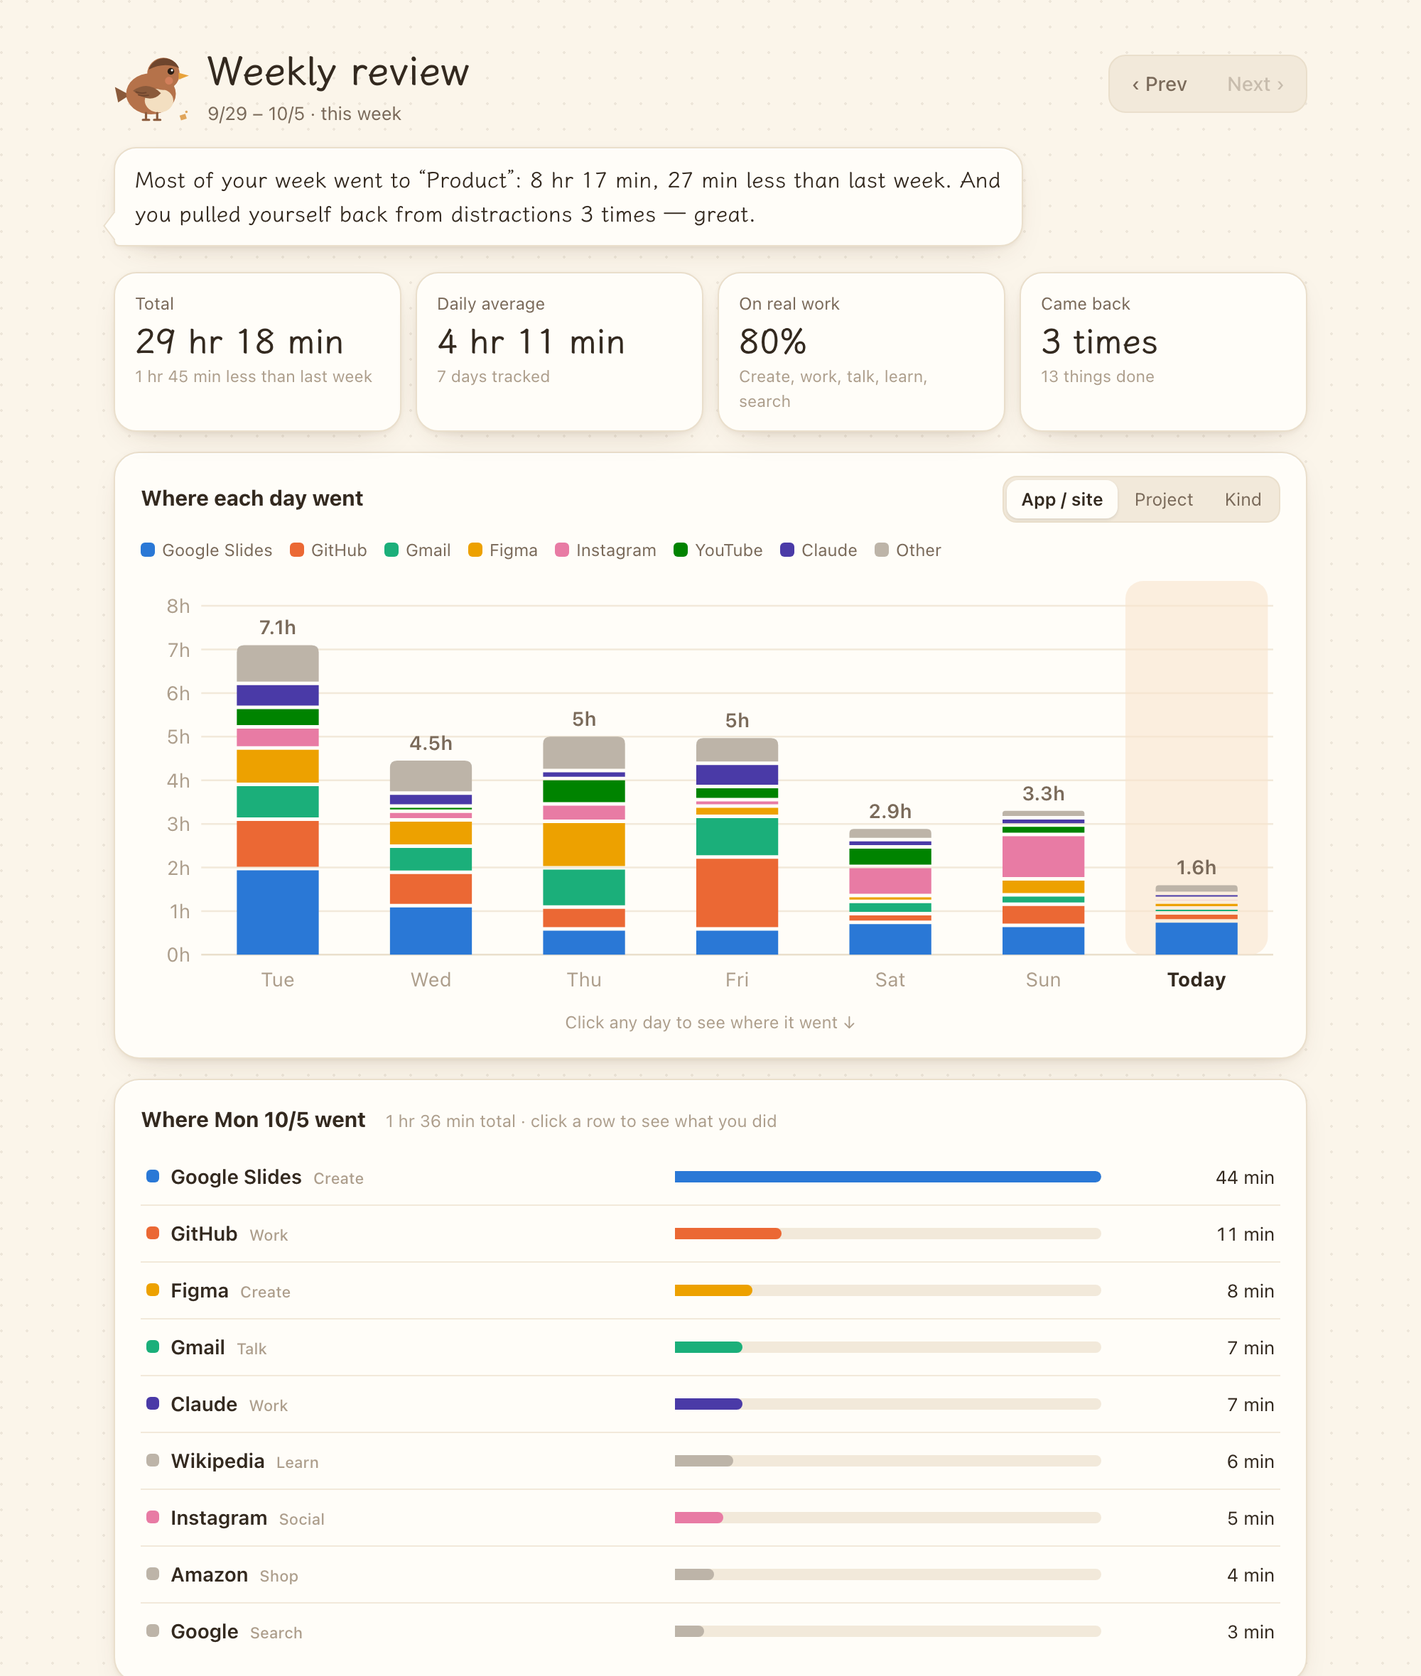
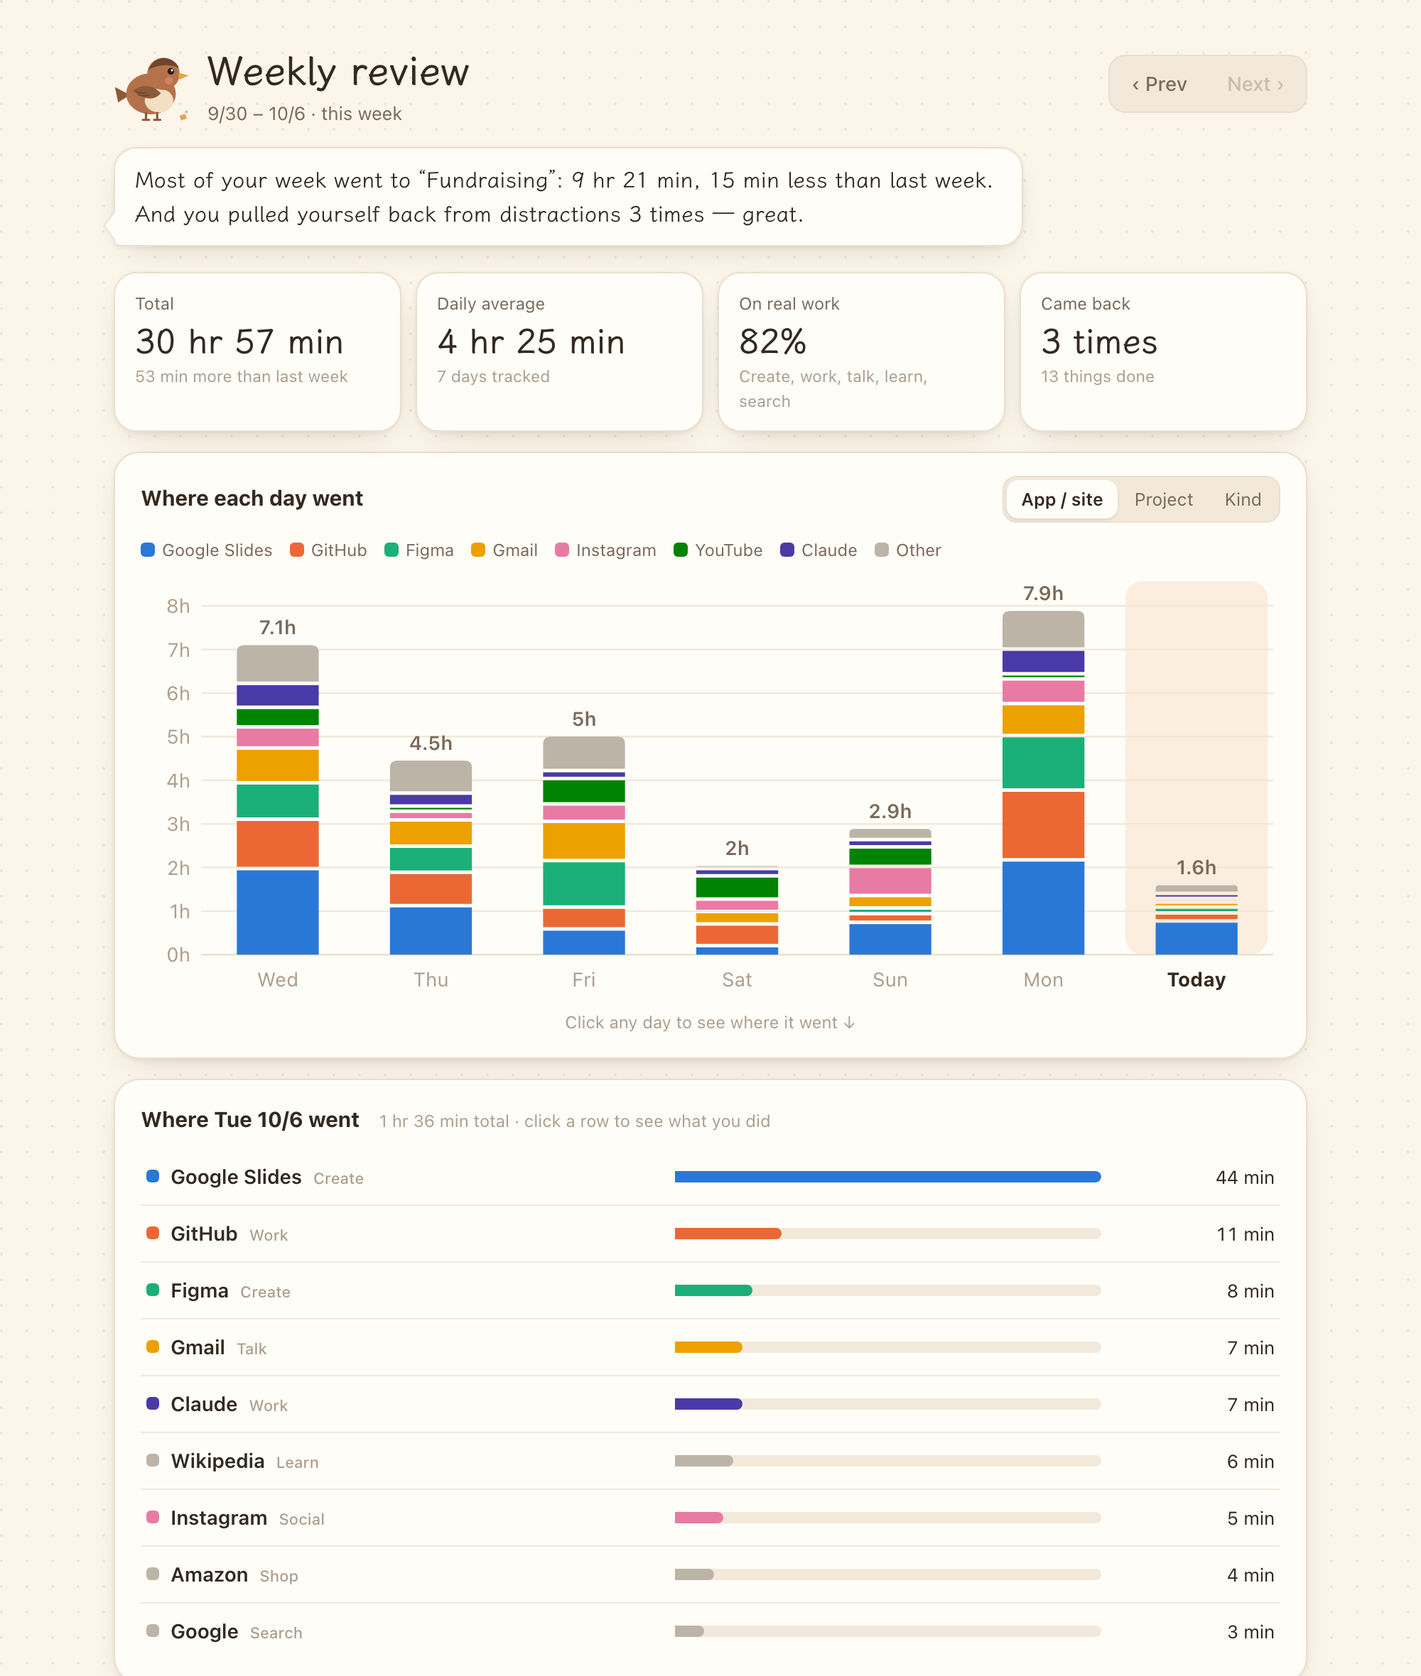
Paste works, multi-line to-dos, and a tidier list
- Overlay and main window: ⌘X/C/V/A/Z work (menu-bar apps have no Edit
  menu); pasting several lines previews one row each, Enter adds them
  all in order, list markers stripped
- Pages become auto to-dos only after 2 minutes or 3 visits
- Closed pages leave the list even without browser permission (window
  titles are checked); permission is re-checked every 2 minutes and the
  overlay shows how to turn it on

diff --git a/mac/Sources/Overlay.swift b/mac/Sources/Overlay.swift
@@ -5,13 +5,33 @@ import SwiftUI
 
 final class OverlayPanel: NSPanel {
     var onKey: ((NSEvent) -> Bool)?
+    var onPaste: (() -> Bool)?
     override var canBecomeKey: Bool { true }
     override var canBecomeMain: Bool { false }
 
     // Arrow keys / Enter / Esc / Tab / Delete drive the list unless a text field is being edited.
     override func sendEvent(_ event: NSEvent) {
+        if event.type == .keyDown, editShortcut(event) { return }
         if event.type == .keyDown, let onKey, onKey(event) { return }
         super.sendEvent(event)
+    }
+
+    /// A menu-bar app has no Edit menu, so ⌘X / ⌘C / ⌘V / ⌘A / ⌘Z need wiring by hand.
+    private func editShortcut(_ e: NSEvent) -> Bool {
+        let mods = e.modifierFlags.intersection(.deviceIndependentFlagsMask)
+        guard mods == .command || mods == [.command, .shift], let key = e.charactersIgnoringModifiers?.lowercased() else { return false }
+        let action: Selector? = switch (key, mods.contains(.shift)) {
+        case ("x", false): #selector(NSText.cut(_:))
+        case ("c", false): #selector(NSText.copy(_:))
+        case ("v", false): #selector(NSText.paste(_:))
+        case ("a", false): #selector(NSText.selectAll(_:))
+        case ("z", false): Selector(("undo:"))
+        case ("z", true): Selector(("redo:"))
+        default: nil
+        }
+        guard let action else { return false }
+        if action == #selector(NSText.paste(_:)), let onPaste, onPaste() { return true }
+        return NSApp.sendAction(action, to: nil, from: self)
     }
 }
 
@@ -28,6 +48,8 @@ final class OverlayModel: ObservableObject {
     @Published var focus: OverlayFocus = .list
     @Published var hover: String?
     @Published var expanded = Set<String>()
+    @Published var pasted: [String] = []      // several lines pasted into 等一下要做, waiting for Enter
+    @Published var browserDenied = false
 
     func refresh() {
         let s = Store.shared
@@ -40,6 +62,8 @@ final class OverlayModel: ObservableObject {
         laterText = ""
         focus = .list
         expanded = []
+        pasted = []
+        browserDenied = !Browser.denied.isEmpty
     }
 
     /// Rough height of the scrolling history, so the panel can size itself.
@@ -85,9 +109,11 @@ final class OverlayController: NSObject, NSWindowDelegate {
             openLater: { [weak self] l in self?.openLater(l) },
             doneLater: { [weak self] l in self?.doneLater(l) },
             openMain: { [weak self] in self?.openMain() },
+            fixBrowser: { [weak self] in self?.fixBrowser() },
             close: { [weak self] in self?.hide() }))
         panel.contentView = host
         panel.onKey = { [weak self] e in self?.handle(e) ?? false }
+        panel.onPaste = { [weak self] in self?.pasteLines() ?? false }
     }
 
     var isVisible: Bool { panel.isVisible }
@@ -152,8 +178,24 @@ final class OverlayController: NSObject, NSWindowDelegate {
         hide()
     }
 
+    /// Pasting several lines into 等一下要做 lists them one per row; Enter adds them all.
+    private func pasteLines() -> Bool {
+        guard model.focus == .later, let s = NSPasteboard.general.string(forType: .string) else { return false }
+        let lines = Engine.splitLines(s)
+        guard lines.count > 1 else { return false }
+        model.pasted += lines
+        resize()
+        return true
+    }
+
+    private func fixBrowser() {
+        hide()
+        NSWorkspace.shared.open(URL(string: "x-apple.systempreferences:com.apple.preference.security?Privacy_Automation")!)
+    }
+
     private func addLater() {
-        Engine.shared.addLater(model.laterText)
+        Engine.shared.addLater(lines: model.pasted + Engine.splitLines(model.laterText))
+        model.pasted = []
         model.laterText = ""
         model.later = Engine.shared.later
         resize()
@@ -184,7 +226,8 @@ final class OverlayController: NSObject, NSWindowDelegate {
     private func handle(_ e: NSEvent) -> Bool {
         switch e.keyCode {
         case 53: // esc
-            if model.focus != .list { model.focus = .list } else { hide() }
+            if !model.pasted.isEmpty { model.pasted = []; resize() }
+            else if model.focus != .list { model.focus = .list } else { hide() }
             return true
         case 48: // tab: list → 這頁要做什麼 → 等一下要做 → list
             model.focus = model.focus == .list ? .note : model.focus == .note ? .later : .list
@@ -263,6 +306,7 @@ struct OverlayView: View {
     var openLater: (Engine.Later) -> Void
     var doneLater: (Engine.Later) -> Void
     var openMain: () -> Void
+    var fixBrowser: () -> Void
     var close: () -> Void
     @FocusState private var focused: OverlayFocus?
 
@@ -271,6 +315,17 @@ struct OverlayView: View {
     var body: some View {
         VStack(alignment: .leading, spacing: 10) {
             header
+            if model.browserDenied {
+                Button(action: fixBrowser) {
+                    Text(L("⚠ 讀不到瀏覽器分頁，關掉的網頁不會自動離開清單。點這裡到「自動化」打開 Crumbs → Chrome",
+                           "⚠ Can't read browser tabs, so closed pages won't leave the list. Click to allow Crumbs → Chrome under Automation"))
+                        .font(.system(size: 12)).multilineTextAlignment(.leading)
+                        .frame(maxWidth: .infinity, alignment: .leading)
+                        .padding(.horizontal, 10).padding(.vertical, 6)
+                        .background(Color.orange.opacity(0.16), in: RoundedRectangle(cornerRadius: 9))
+                }
+                .buttonStyle(.plain)
+            }
             if let n = model.prev?.note, !n.isEmpty {
                 Text(L("你說過要：", "You said: ") + n)
                     .font(.system(size: 12.5))
@@ -370,7 +425,22 @@ struct OverlayView: View {
             if model.later.count > 4 {
                 Text(L("還有 \(model.later.count - 4) 件，在主頁「接下來」", "\(model.later.count - 4) more in “Up next” on the main window")).font(.system(size: 11)).foregroundStyle(.tertiary).padding(.leading, 8)
             }
-            field(.later, icon: "plus", text: $model.laterText, placeholder: L("等一下要做…（可以貼還沒點開的網址）", "Do later… (you can paste a link you haven't opened)"), submit: addLater)
+            field(.later, icon: "plus", text: $model.laterText, placeholder: L("等一下要做…（可以一次貼好幾行，或還沒點開的網址）", "Do later… (paste several lines, or a link you haven't opened)"), submit: addLater)
+            if !model.pasted.isEmpty {
+                VStack(alignment: .leading, spacing: 2) {
+                    ForEach(Array(model.pasted.enumerated()), id: \.offset) { _, line in
+                        HStack(spacing: 8) {
+                            Image(systemName: "plus.circle").font(.system(size: 12)).foregroundStyle(crumbOrange)
+                            Text(line).font(.system(size: 13)).lineLimit(1)
+                        }
+                        .padding(.horizontal, 8).padding(.vertical, 3)
+                    }
+                    Text(L("按 Enter 加入這 \(model.pasted.count) 項 · Esc 取消", "Enter adds these \(model.pasted.count) · Esc cancels"))
+                        .font(.system(size: 11)).foregroundStyle(.secondary).padding(.leading, 8).padding(.top, 2)
+                }
+                .padding(.vertical, 4)
+                .background(crumbOrange.opacity(0.08), in: RoundedRectangle(cornerRadius: 10))
+            }
         }
     }
 

diff --git a/sidepanel.js b/sidepanel.js
@@ -15,6 +15,7 @@
   let dragKey = null;       // task being dragged
   let openKeys = [];        // current order of open tasks, for reordering
   let seenLog = null;       // jar log length we've already celebrated
+  let pasted = [];          // lines pasted into the add box, waiting for Enter
 
   function pref(k, v) {
     try {
@@ -221,7 +222,7 @@
         <button class="more" data-act="toggleMore">${showMore ? L('收起來，一次看少一點', 'Show less') : L(`還有 ${rest.length - LIMIT} 件，先不用看`, `${rest.length - LIMIT} more — no need to look yet`)}</button>` : ''}
       <form class="add" data-act="add">
         <span class="add-ic">${ICON.plus}</span>
-        <input name="task" maxlength="60" placeholder="${L('腦中冒出一件事？先丟這裡', 'Something popped into your head? Drop it here')}" autocomplete="off">
+        <input name="task" maxlength="60" placeholder="${L('腦中冒出一件事？先丟這裡（可以一次貼好幾行）', 'Something popped into your head? Drop it here (paste several lines at once)')}" autocomplete="off">
       </form>
       ${done.length ? `
         <button class="section toggle" data-act="toggleDone" aria-expanded="${showDone}">
@@ -445,7 +446,31 @@
     render();
   });
 
+  // Pasting a block of to-dos: one row per line, shown before you press Enter.
+  function showPasted(form) {
+    let box = form.nextElementSibling;
+    if (!box || !box.classList.contains('paste-preview')) {
+      if (!pasted.length) return;
+      box = document.createElement('div');
+      box.className = 'paste-preview';
+      form.after(box);
+    }
+    if (!pasted.length) { box.remove(); return; }
+    box.innerHTML = `<ol>${pasted.map((l) => `<li>${e(l)}</li>`).join('')}</ol>
+      <p>${L(`按 Enter 加入這 ${pasted.length} 項 · Esc 取消`, `Enter adds these ${pasted.length} · Esc cancels`)}</p>`;
+  }
+  app.addEventListener('paste', (ev) => {
+    const input = ev.target.closest?.('form.add input');
+    if (!input) return;
+    const lines = C.splitLines(ev.clipboardData?.getData('text/plain'));
+    if (lines.length < 2) return;
+    ev.preventDefault();
+    pasted = pasted.concat(lines);
+    showPasted(input.form);
+  });
+
   app.addEventListener('keydown', (ev) => {
+    if (ev.key === 'Escape' && pasted.length && ev.target.closest?.('form.add')) { pasted = []; showPasted(ev.target.form); return; }
     if (ev.key === 'Enter' && ev.target.matches('[role=button]')) ev.target.click();
     if (ev.key === 'Escape' && editingNote) { editingNote = null; ev.target.blur(); render(); }
   });
@@ -477,10 +502,13 @@
     const f = ev.target;
     if (f.dataset.act === 'add') {
       const input = f.elements.task;
-      const title = input.value.trim();
-      if (!title) return;
+      const lines = pasted.concat(C.splitLines(input.value));
+      if (!lines.length) return;
       input.value = '';
-      send({ type: 'addTask', title });
+      pasted = [];
+      showPasted(f);
+      // Newest first in the list: the first line gets the latest time, so it stays on top.
+      lines.forEach((title, i) => send({ type: 'addTask', title, seq: lines.length - i }));
       input.blur();
     } else if (f.dataset.act === 'saveNote') {
       send({ type: 'note', crumbId: f.dataset.id, note: f.elements.note.value });

diff --git a/shared.js b/shared.js
@@ -210,6 +210,11 @@
     st.projects = st.projects || [];
     return st;
   }
+  /** A pasted block → one to-do per line, without list markers ("- ", "• ", "1. ", "[ ] "). */
+  const splitLines = (text) => String(text || '').split(/\r?\n/)
+    .map((l) => l.replace(/^\s*(?:[-*•·◦▪‣–—]|\d{1,3}[.)、]|\[[ xX]?\]|[☐☑✓✔])\s*/, '').trim())
+    .filter(Boolean);
+
   const uid = (now) => now.toString(36) + Math.random().toString(36).slice(2, 6);
 
   // ── 麵包屑罐 ────────────────────────────────────────────────────
@@ -460,9 +465,10 @@
         const title = (msg.title || '').trim();
         if (!title) break;
         const key = 'manual:' + uid(now);
+        const at = now + (msg.seq || 0); // several pasted lines keep their order (newest first = top line)
         st.tasks[key] = {
           key, title, verb: '待辦', kind: 'todo', site: '', url: msg.url || '', tabId: null, manual: true, custom: true, later: !!msg.later,
-          firstSeen: now, lastSeen: now, totalMs: 0, visits: 0, progress: 0, prevProgress: 0,
+          firstSeen: at, lastSeen: at, totalMs: 0, visits: 0, progress: 0, prevProgress: 0,
           done: false, doneAt: null, pinned: false, hidden: false, note: '',
         };
         break;
@@ -651,8 +657,8 @@
         return { ...t, ms, isCurrent: !!(cur && cur.taskKey === t.key) };
       })
       // A page you merely passed by isn't a task yet: stay a few seconds, or come back to it.
-      .filter((t) => t.manual || t.pinned || t.progress > 0 || t.note || t.pos || t.isCurrent ||
-        t.ms >= 8e3 || t.visits >= 2);
+      .filter((t) => t.manual || t.pinned || t.progress > 0 || t.note || t.pos ||
+        t.ms >= 2 * MIN || t.visits >= 3);
 
     for (const t of list) {
       let s = (KIND[t.kind] || KIND.browse).w * 10;
@@ -764,7 +770,7 @@ ${heap}
   }
 
   root.Crumbs = {
-    L, tr, setLang, resolveLang, lang,
+    L, tr, setLang, resolveLang, lang, splitLines,
     award, jarDay, jarOf, streak, cheerLine, jarSVG, dayKey, JAR_GOAL,
     migrate, projectOf, weekStats, PALETTE, parseRules,
     KIND, describe, cleanTitle, recentPlaces, siteGroup, groupTrail, siteName, emptyState, visit, closeCurrent, reduce,

diff --git a/mac/Sources/main.swift b/mac/Sources/main.swift
@@ -10,6 +10,7 @@ final class AppDelegate: NSObject, NSApplicationDelegate, NSMenuDelegate {
     private var doubleTap: DoubleTap!
 
     func applicationDidFinishLaunching(_ n: Notification) {
+        installEditMenu()
         Engine.shared.start()
         tracker = Tracker(store: .shared)
         overlay = OverlayController()
@@ -39,6 +40,29 @@ final class AppDelegate: NSObject, NSApplicationDelegate, NSMenuDelegate {
                 self?.doubleTap = DoubleTap(key: TapKey.saved) { [weak self] in self?.overlay.toggle() }
             }
         }
+    }
+
+    /// Without an Edit menu, ⌘C / ⌘V / ⌘X / ⌘A / ⌘Z do nothing in the main page (it's never shown: menu-bar app).
+    private func installEditMenu() {
+        let main = NSMenu()
+        let appItem = NSMenuItem()
+        appItem.submenu = NSMenu()
+        appItem.submenu?.addItem(NSMenuItem(title: L("結束 Crumbs 麵包屑", "Quit Crumbs"), action: #selector(NSApplication.terminate(_:)), keyEquivalent: "q"))
+        main.addItem(appItem)
+        let editItem = NSMenuItem()
+        let edit = NSMenu(title: L("編輯", "Edit"))
+        edit.addItem(NSMenuItem(title: L("還原", "Undo"), action: Selector(("undo:")), keyEquivalent: "z"))
+        let redo = NSMenuItem(title: L("重做", "Redo"), action: Selector(("redo:")), keyEquivalent: "z")
+        redo.keyEquivalentModifierMask = [.command, .shift]
+        edit.addItem(redo)
+        edit.addItem(.separator())
+        edit.addItem(NSMenuItem(title: L("剪下", "Cut"), action: #selector(NSText.cut(_:)), keyEquivalent: "x"))
+        edit.addItem(NSMenuItem(title: L("拷貝", "Copy"), action: #selector(NSText.copy(_:)), keyEquivalent: "c"))
+        edit.addItem(NSMenuItem(title: L("貼上", "Paste"), action: #selector(NSText.paste(_:)), keyEquivalent: "v"))
+        edit.addItem(NSMenuItem(title: L("全選", "Select All"), action: #selector(NSText.selectAll(_:)), keyEquivalent: "a"))
+        editItem.submenu = edit
+        main.addItem(editItem)
+        NSApp.mainMenu = main
     }
 
     func applicationWillTerminate(_ n: Notification) {

diff --git a/mac/Sources/Tracker.swift b/mac/Sources/Tracker.swift
@@ -60,6 +60,8 @@ enum AX {
 enum Browser {
     private static let queue = DispatchQueue(label: "crumbs.applescript")
     private(set) static var denied = Set<String>()
+    /// Ask again now and then: the user may have turned the permission on since (no prompt is shown).
+    static func retryDenied() { denied.removeAll() }
 
     private static func run(_ source: String) -> String? {
         var err: NSDictionary?
@@ -181,13 +183,17 @@ final class Tracker {
     }
 
     private var syncTimer: Timer?
+    private var syncCount = 0
 
     /// Tell the store + main page what's still open, so closed tabs / windows / apps leave the lists.
     func syncOpen() {
         let apps = NSWorkspace.shared.runningApplications.filter { $0.activationPolicy == .regular }
         let running = Set(apps.compactMap(\.bundleIdentifier))
-        // Window titles only for apps we have places in (cheap, and only with Accessibility).
-        let tracked = Set(store.crumbs.map(\.bundleId)).subtracting(Describe.browsers)
+        syncCount += 1
+        if syncCount % 12 == 0 { Browser.retryDenied() } // every ~2 minutes
+        // Window titles for apps we have places in (cheap, and only with Accessibility).
+        // Browsers too: without permission to read tabs, window titles are how we notice a closed page.
+        let tracked = Set(store.crumbs.map(\.bundleId))
         var windows: [String: [String]] = [:]
         for a in apps {
             guard let bid = a.bundleIdentifier, tracked.contains(bid),

diff --git a/mac/Sources/Engine.swift b/mac/Sources/Engine.swift
@@ -54,10 +54,23 @@ final class Engine: NSObject, WKScriptMessageHandler, WKUIDelegate, WKNavigation
             }
     }
 
-    func addLater(_ text: String) {
+    /// A pasted block → one to-do per line, without list markers ("- ", "• ", "1. ", "[ ] ").
+    static func splitLines(_ text: String) -> [String] {
+        let marker = try! Regex(#"^\s*(?:[-*•·◦▪‣–—]|\d{1,3}[.)、]|\[[ xX]?\]|[☐☑✓✔])\s*"#)
+        return text.split(whereSeparator: \.isNewline)
+            .map { String($0).replacing(marker, with: "").trimmingCharacters(in: .whitespaces) }
+            .filter { !$0.isEmpty }
+    }
+
+    func addLater(lines: [String]) {
+        // The list is newest first: give the first line the latest time so it stays on top.
+        for (i, l) in lines.enumerated().reversed() { addLater(l, seq: lines.count - i) }
+    }
+
+    func addLater(_ text: String, seq: Int = 0) {
         let s = text.trimmingCharacters(in: .whitespacesAndNewlines)
         guard !s.isEmpty else { return }
-        var msg: [String: Any] = ["type": "addTask", "title": s, "later": true]
+        var msg: [String: Any] = ["type": "addTask", "title": s, "later": true, "seq": seq]
         if let u = URL(string: s), let scheme = u.scheme, ["http", "https"].contains(scheme), let host = u.host {
             msg["url"] = s
             let path = u.path.count > 1 ? u.path : ""

diff --git a/sidepanel.css b/sidepanel.css
@@ -304,3 +304,9 @@ footer { align-items: flex-end; }
 .lang-pick { display: inline-flex; align-items: center; gap: 4px; color: var(--ink-3); }
 .lang-pick select { font: inherit; color: var(--ink-2); background: transparent; border: 1px solid var(--line); border-radius: 999px; padding: 2px 6px; cursor: pointer; }
 .lang-pick select:hover { color: var(--ink); border-color: var(--ink-3); }
+
+/* ── several pasted lines, waiting for Enter ── */
+.paste-preview { margin: -4px 0 12px; padding: 8px 12px; border-radius: 12px; background: var(--crumb-soft); font-size: 13px; }
+.paste-preview ol { margin: 0; padding-left: 20px; }
+.paste-preview li { padding: 2px 0; color: var(--ink); }
+.paste-preview p { margin: 6px 0 0; font-size: 11.5px; color: var(--ink-2); }
